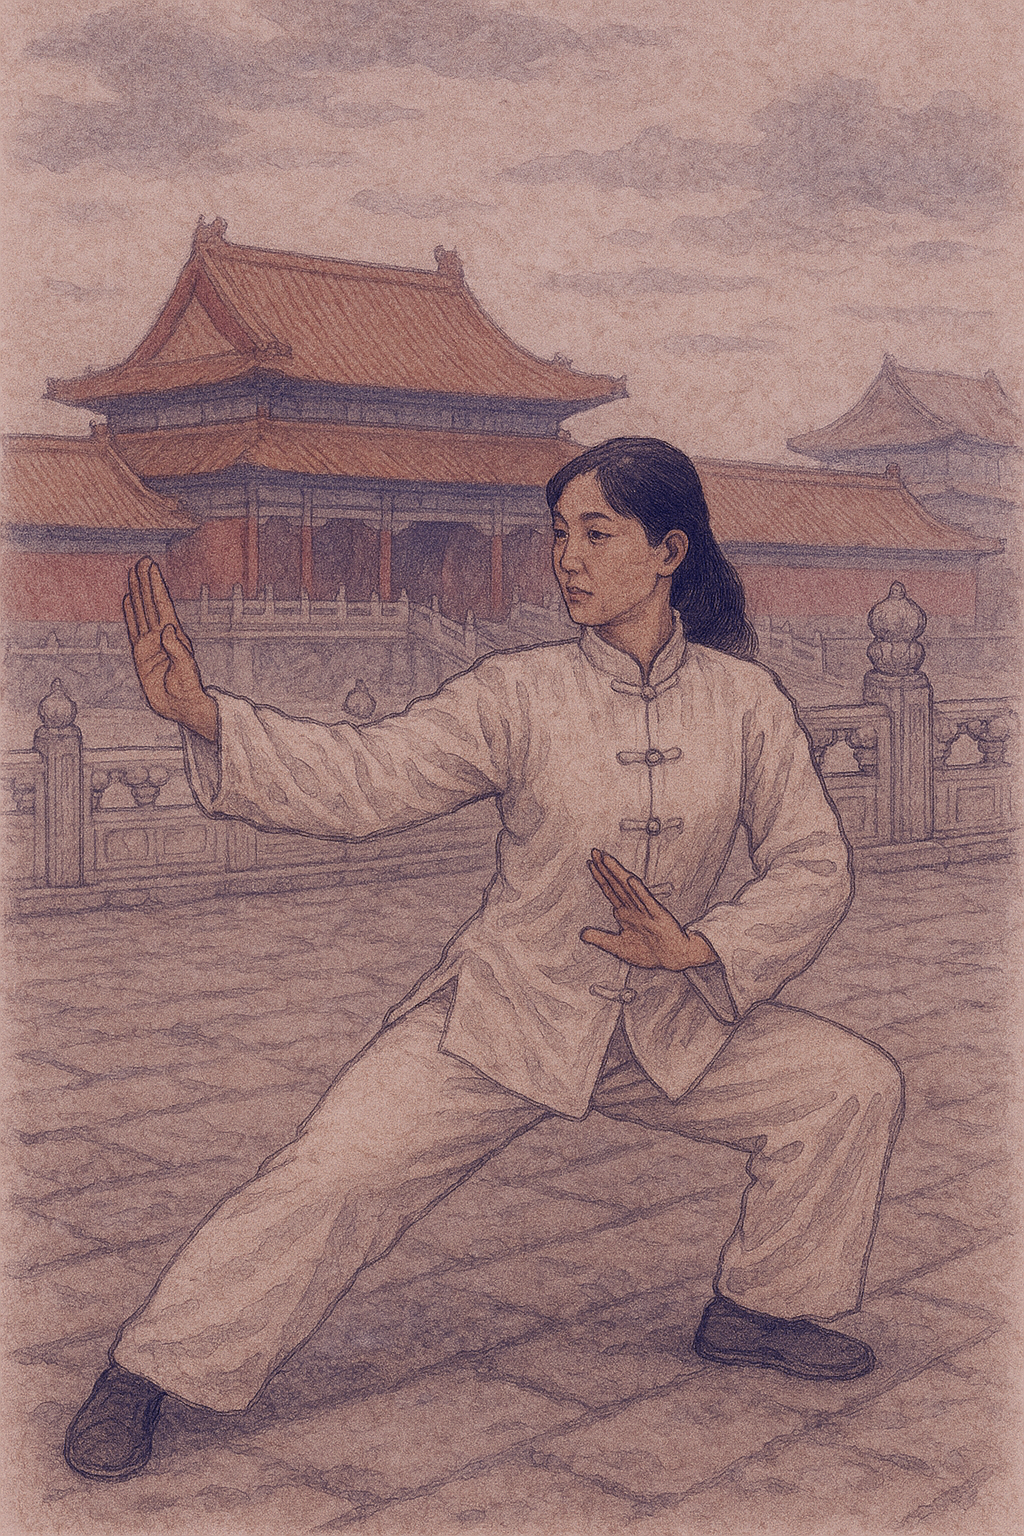
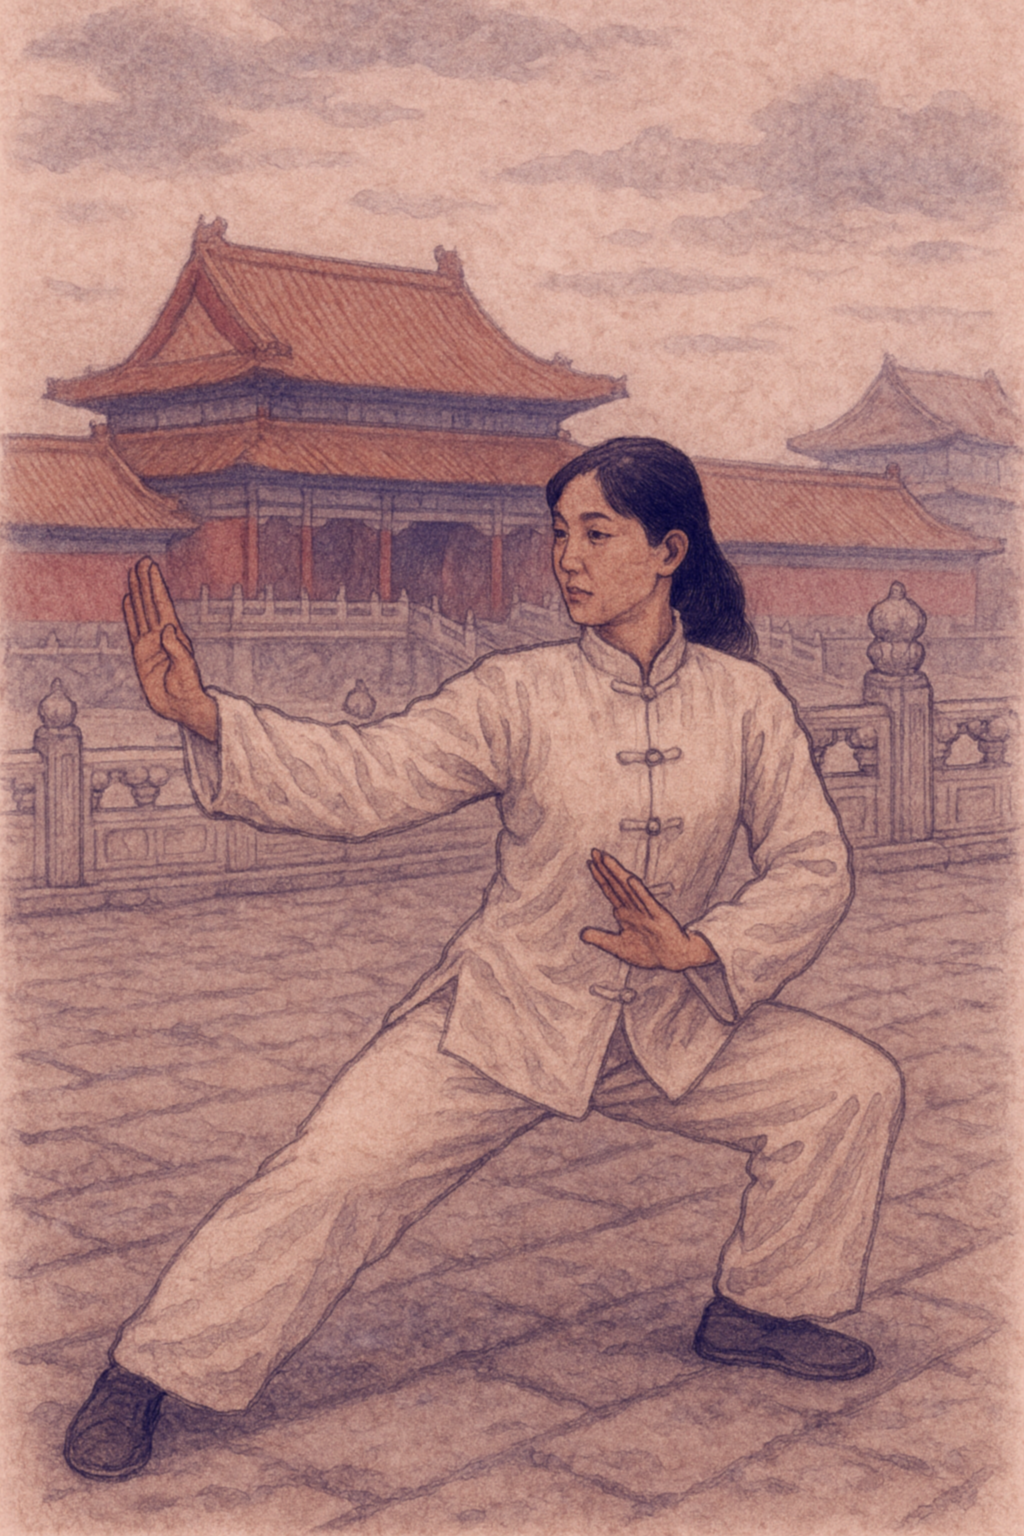
Cleaned up images

diff --git a/src/sections/Styles.tsx b/src/sections/Styles.tsx
@@ -6,7 +6,7 @@ export default function Styles() {
     {
       id: "kungfu",
       title: "Gong Fu",
-      subtitle: "Central Chinese Gong Fu",
+      subtitle: "Won Hop Loong Chuan",
       description:
         "Won Hop Loong Chuan is an eclectic mix of Northern and Southern Chinese styles, which we refer to as 'Central Chinese'.",
       color: {